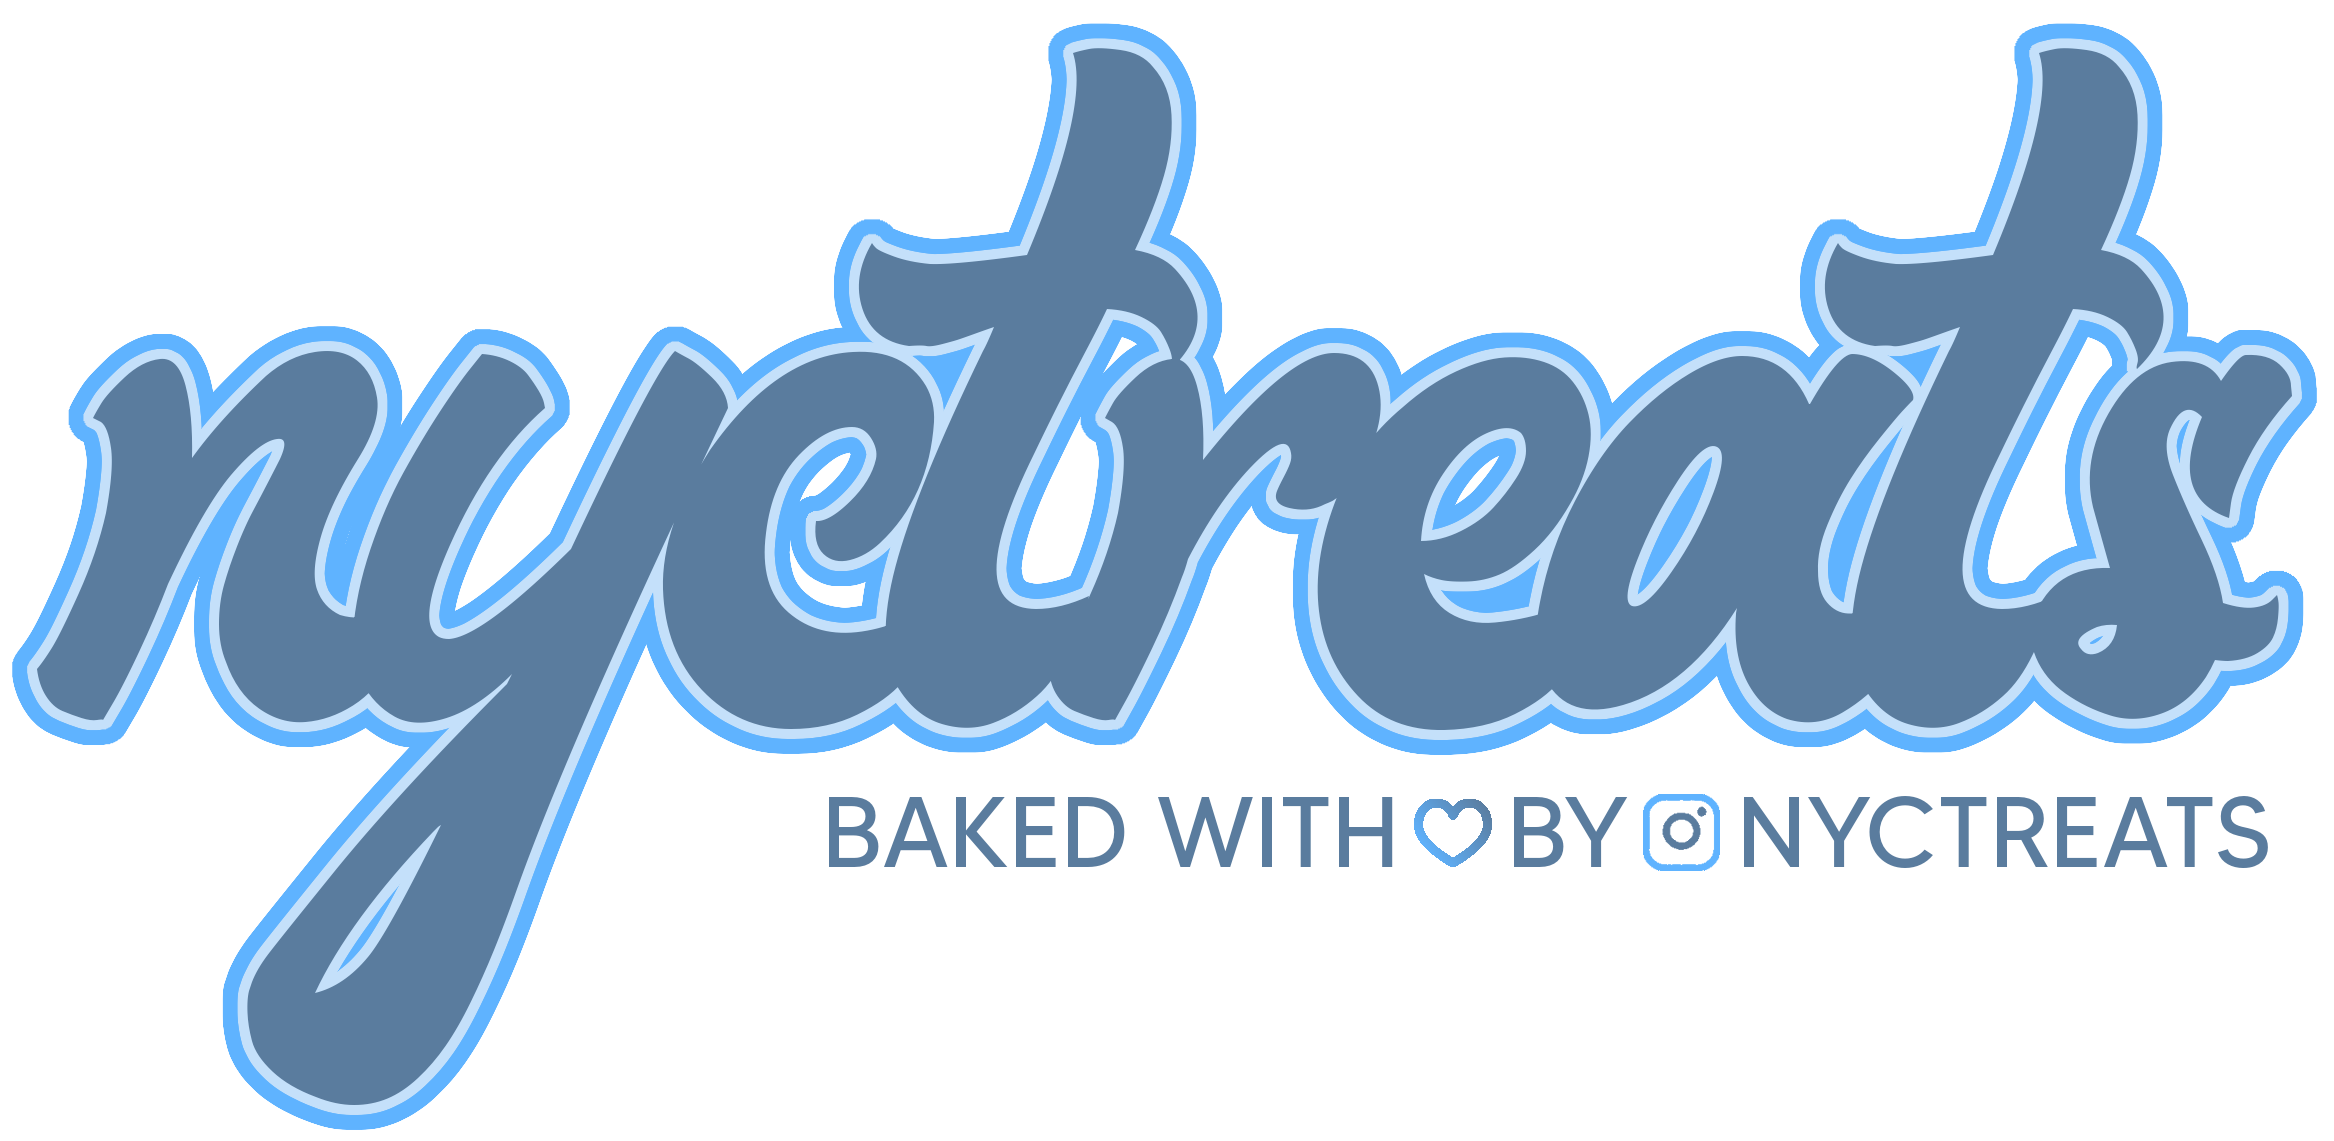
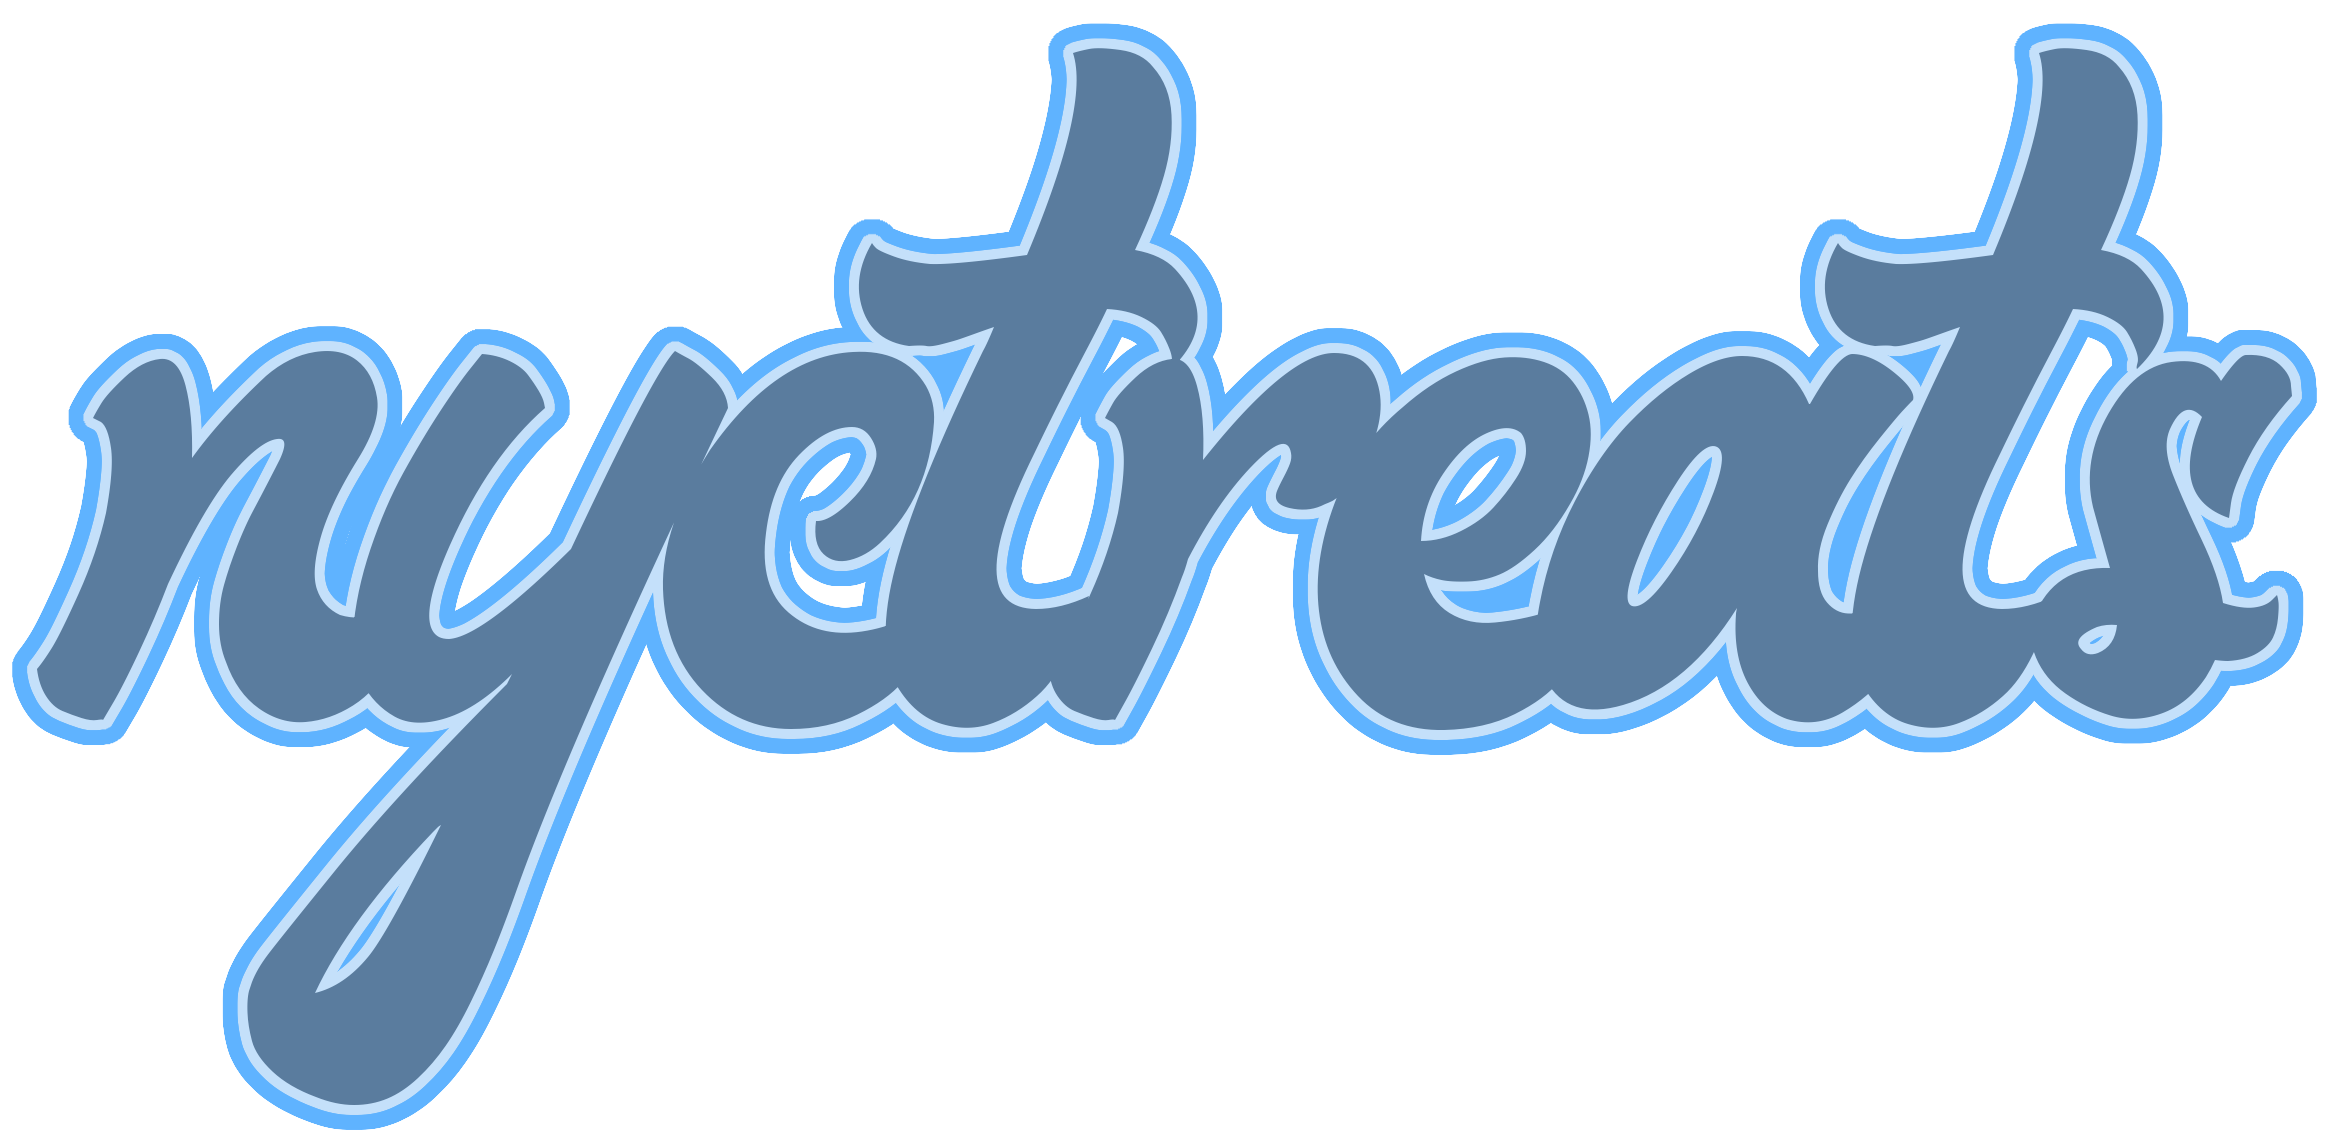
Update

Changed region(s): [[0.3393, 0.6748, 0.9871, 0.7669]]

diff --git a/index.html b/index.html
@@ -855,11 +855,11 @@
             <div class="col-md">
                <div class="ftco-footer-widget mb-4">
                 <ul class="list-unstyled">
-                  <!-- <li>
+                  <li>
                     <div class="container-fluid" data-scrollax-parent="true">
-                      <center><img width="375px" src="/images/nycbanner.png"></center>
+                      <center><img width="375px" src="/images/nyctreats.png"></center>
                     </div>
-                  </li> -->
+                  </li>
                 </ul>
               </div>
             </div>
